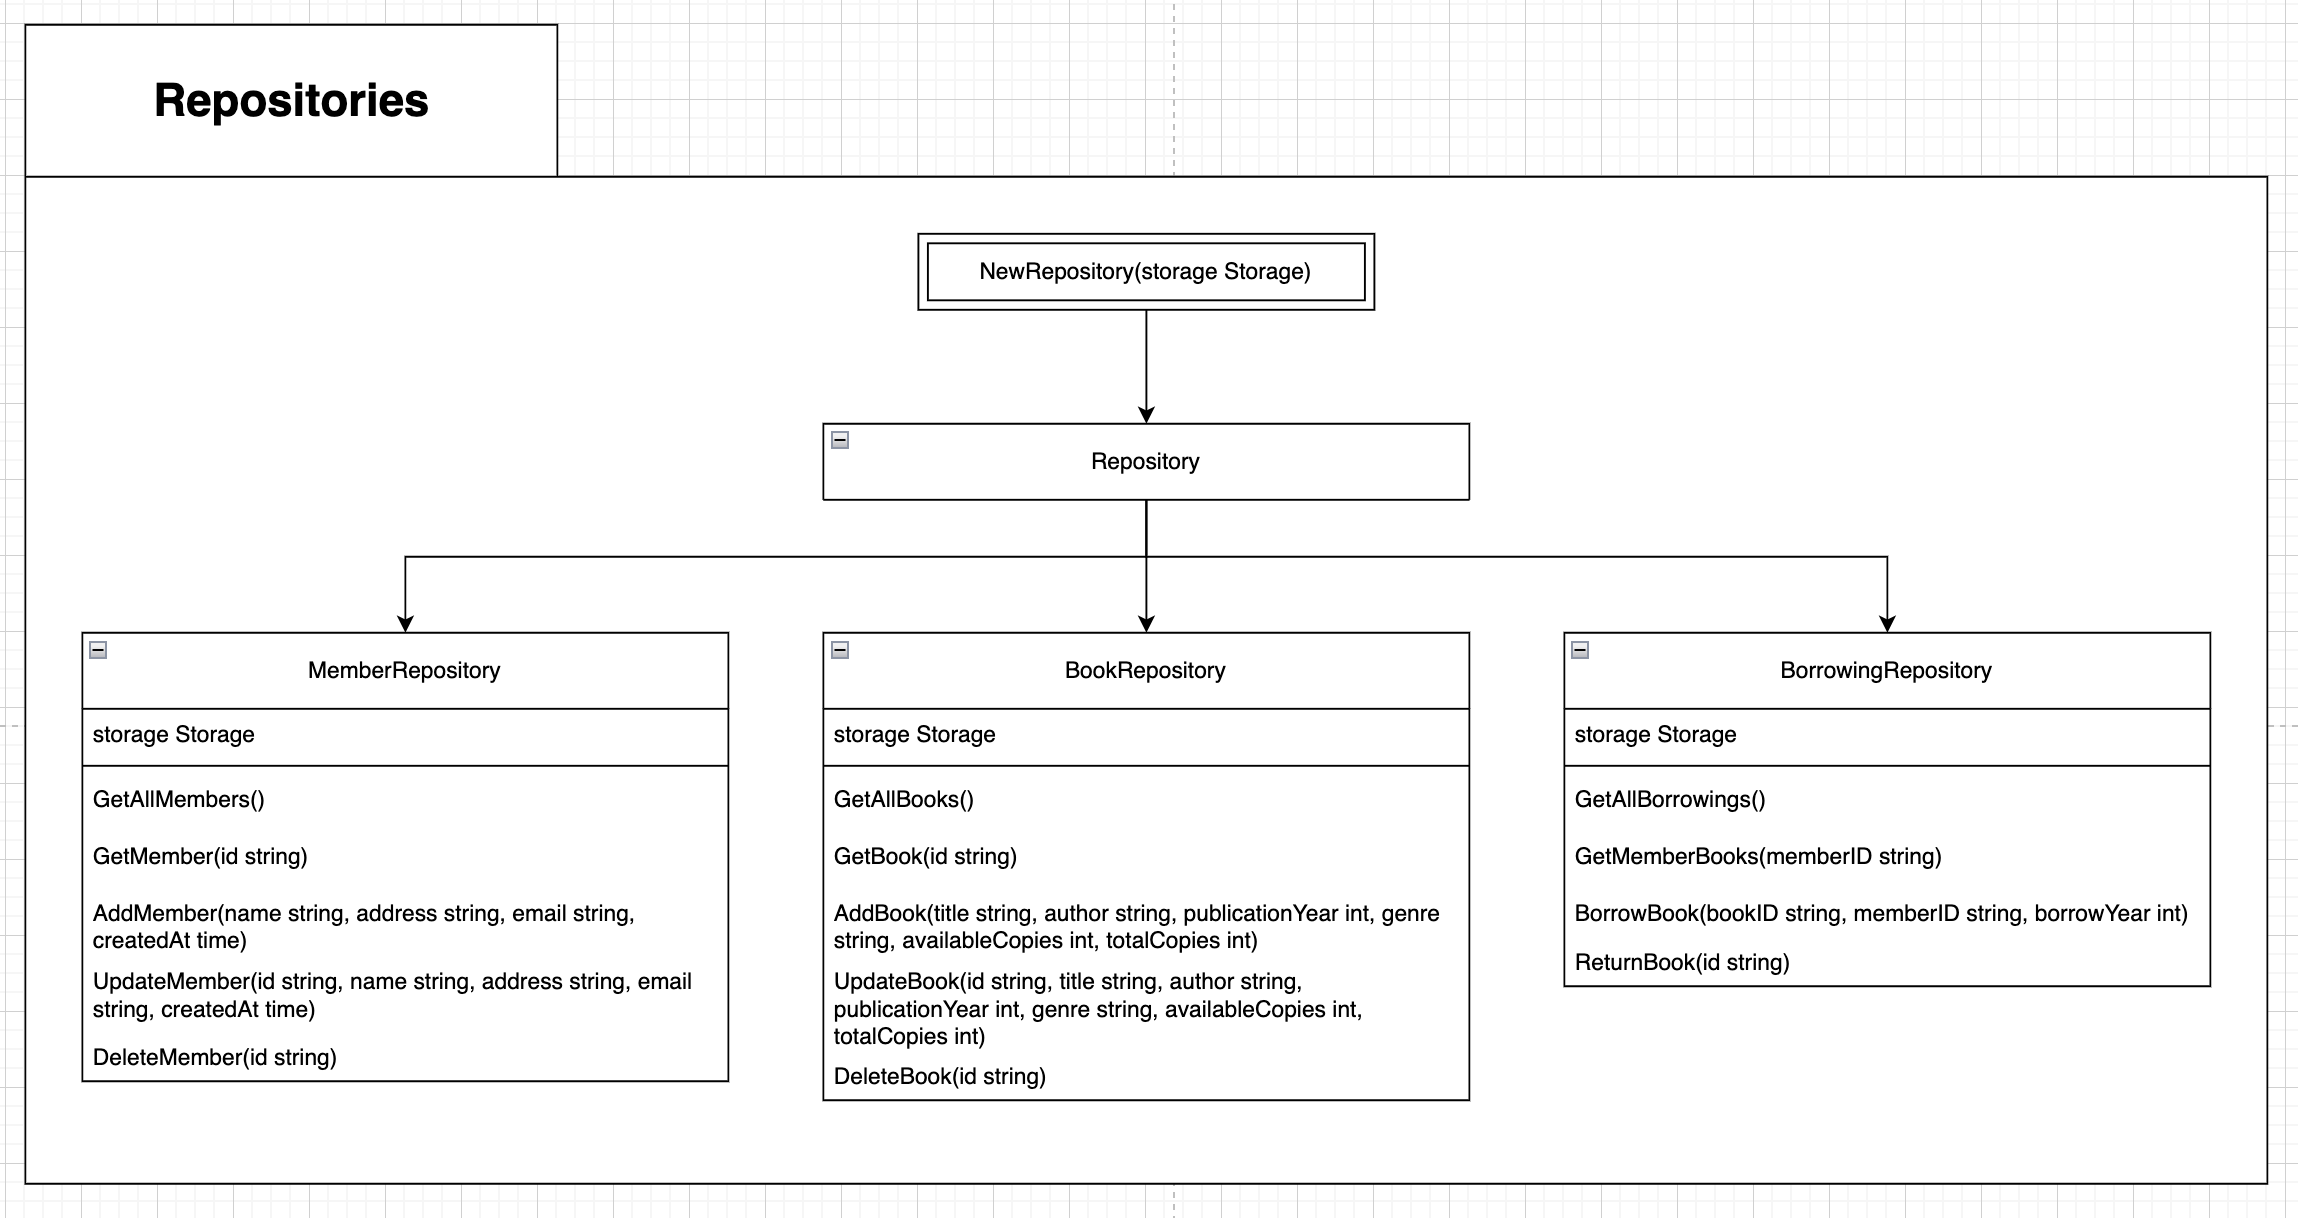
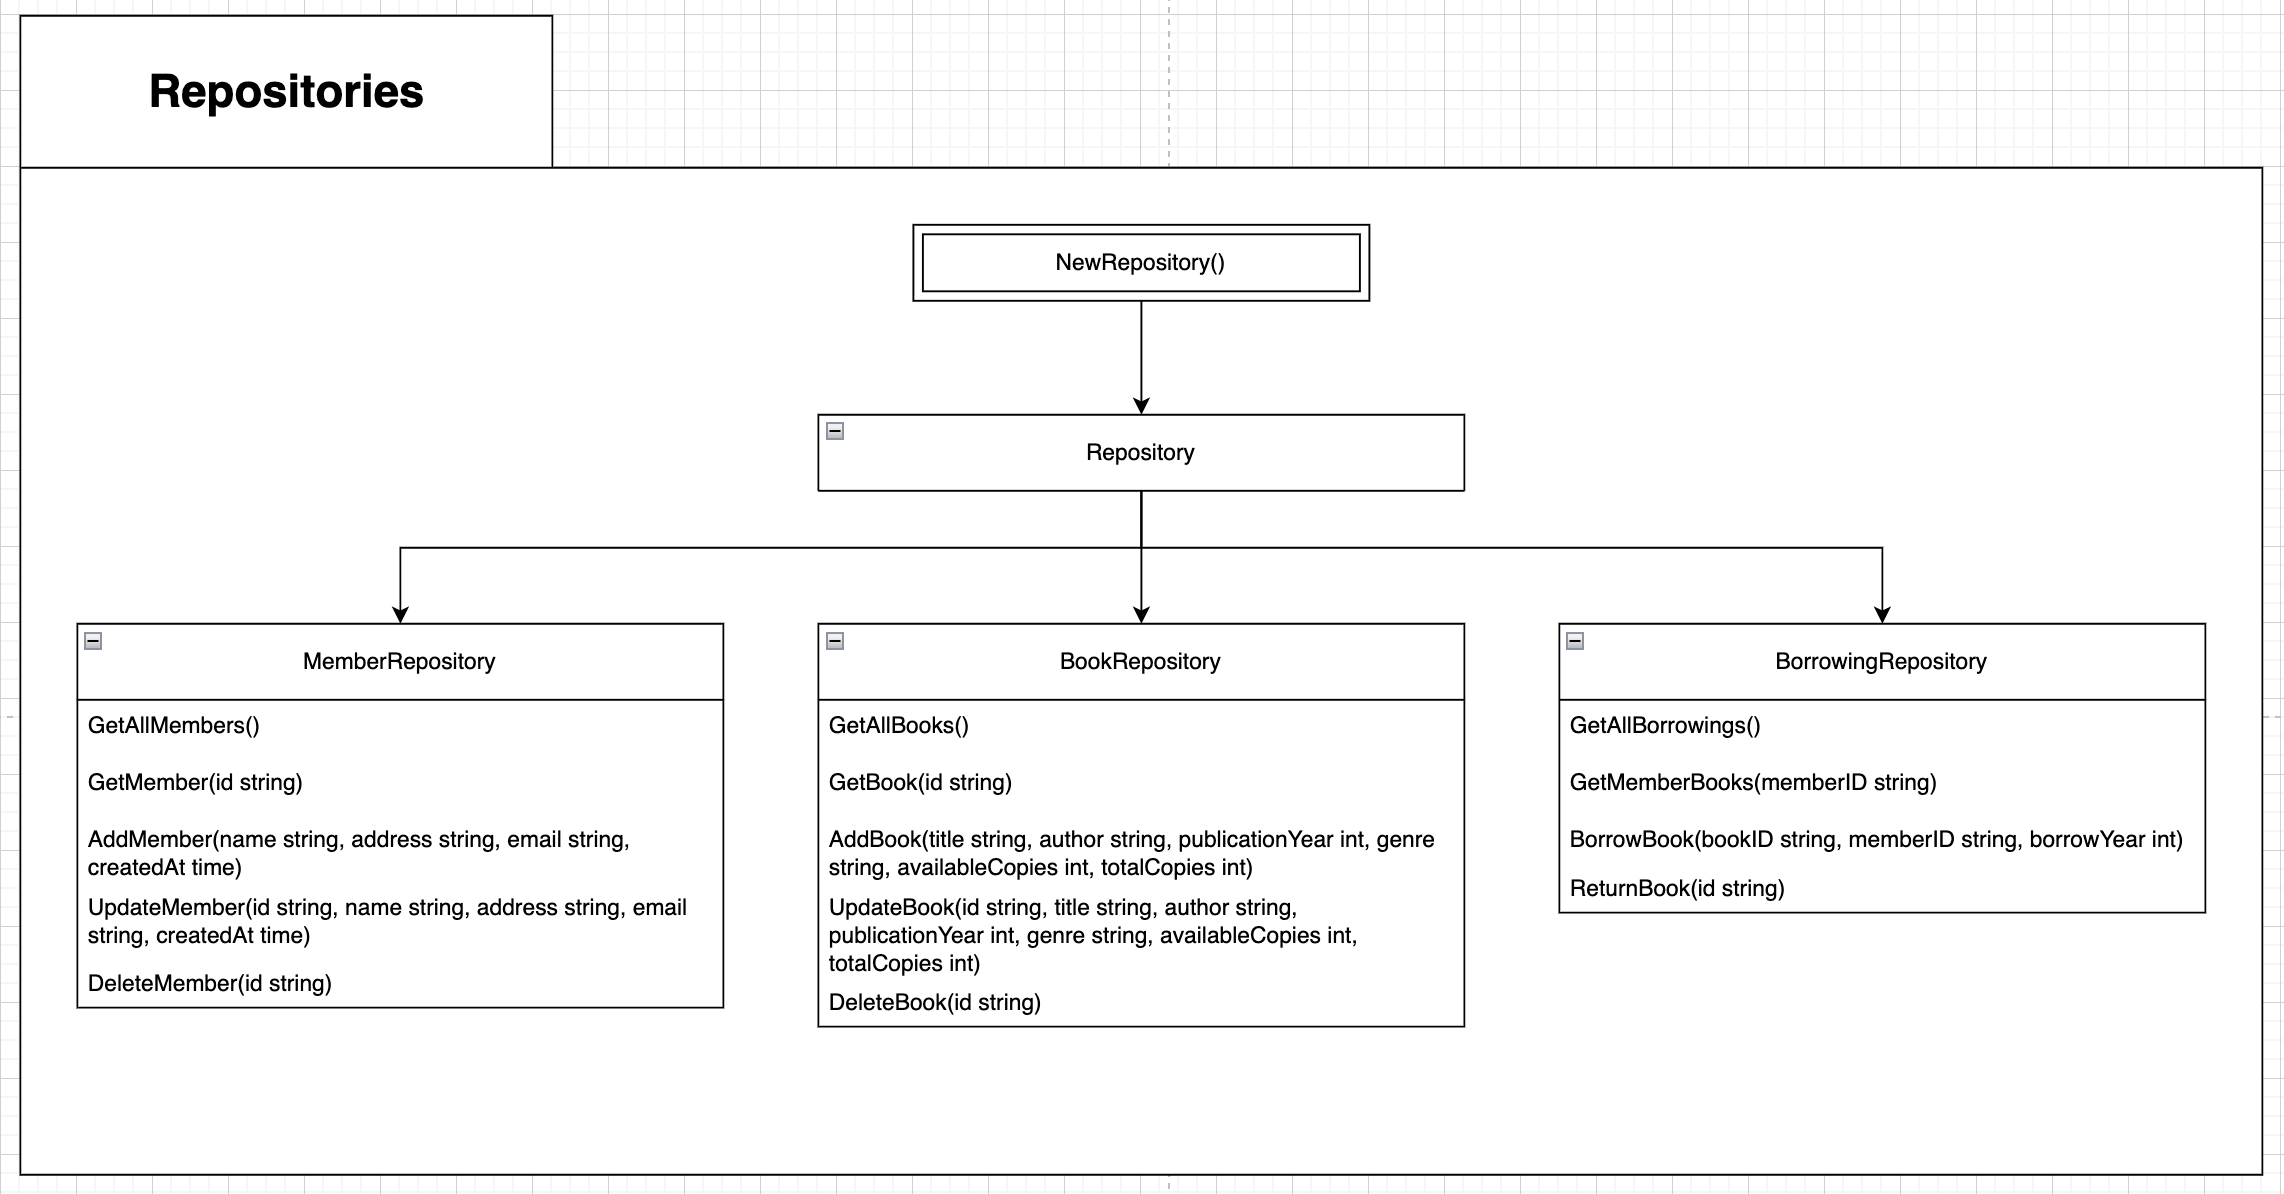
Update README.md v7

diff --git a/README.md b/README.md
@@ -106,7 +106,7 @@ BookRepository:
 - ReturnBook(id string): Зарегистрировать возврат книги.
 
 ## 3.4. Конструкторы:
-- NewRepository(storage Storage): создает класс Repository с определенным хранилищем.
+- NewRepository(): создает класс Repository.
 
 ## 4. Сервис, предоставляющий API:
 ![APIService](https://raw.github.com/Matvey1109/LibraryManagementSystemAPI/Lab1/screenshots/APIService.png)
@@ -135,7 +135,7 @@ Member:
 - returnBookHandler(): использует метод ReturnBook. *PUT /borrowings/{borrowingId}*
 
 ## 3.3. Конструктор:
-- NewAPIService(repo Repository): Создает новый экземпляр сервиса APIService, используя класс репозитория с определенным хранилищем. Реализация конструктора создает singleton, что означает, что в рамках приложения будет существовать только один экземпляр APIService.
+- NewAPIService(): Создает экземпляр сервиса APIService. Реализация конструктора создает singleton, что означает, что в рамках приложения будет существовать только один экземпляр APIService.
 
 ## 3.4. Дополнительные функции:
 - registerAPIEndpoints(apiService *APIService): Регистрирует обработчики API-запросов для сервиса.
